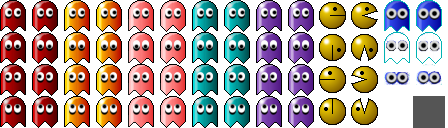
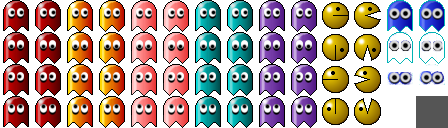
Implementado dibujado de texturas

diff --git a/HolaSDL/GameMap.cpp b/HolaSDL/GameMap.cpp
@@ -4,28 +4,25 @@
 
 GameMap::GameMap(Game* game, size_t rows, size_t cols) :pGame(game), _rows(rows), _cols(cols)
 {
-
+	//INIT BOARD/////////
 	board = new MapCell_t*[rows];
 
 	for (size_t i = 0; i < rows; i++)
 	{
 		board[i] = new MapCell_t[cols];
 	}
+	//FORMAT TILE
 	rect.x = rect.y = rect.w = rect.h = 0;
 	pGame->rectToTile(rect);
 
-	wallText = new Texture();
-	wallText->load(pGame->getRenderer(), pGame->getTextPath(Game::tWall));
+	//GET TEXTURES////////////
+	wallText	= pGame->getTexture(Game::Texture_t::tWall);
 
-	vitiminText = new Texture();
-	vitiminText->load(pGame->getRenderer(), pGame->getTextPath(Game::tVitamin));
+	vitiminText = pGame->getTexture(Game::Texture_t::tVitamin);
 
-	foodText = new Texture();
-	foodText->load(pGame->getRenderer(), pGame->getTextPath(Game::tPjes));
+	foodText	= pGame->getTexture(Game::Texture_t::tFood);
 
-	emptyText = new Texture();
-	emptyText->load(pGame->getRenderer(), pGame->getTextPath(Game::tPjes));
-
+	emptyText	= pGame->getTexture(Game::Texture_t::tPjes);
 }
 
 
@@ -63,12 +60,6 @@ bool GameMap::isEmpty(size_t x, size_t y)
 void GameMap::render()
 {
 
-	SDL_Rect destRect;
-	pGame->rectToTile(rect);
-	//pGame->rectToTile(destRect);
-
-	//emptyText->
-
 	for (size_t i = 0; i < _rows; i++)
 	{
 		for (size_t j = 0; j < _cols; j++)
@@ -81,13 +72,13 @@ void GameMap::render()
 				wallText->render(pGame->getRenderer(), &rect);
 				break;
 			case MapCell_t::Empty:
-				emptyText->renderFrame(pGame->getRenderer(), destRect, 3, 13, SDL_FLIP_NONE);
+				emptyText->renderFrame(pGame->getRenderer(), rect, 3, 13, SDL_FLIP_NONE);
 				break;
 			case MapCell_t::Vitamins:
 				vitiminText->render(pGame->getRenderer(), &rect);
 				break;
 			case MapCell_t::Food:
-				foodText->render(pGame->getRenderer(), &rect);
+				wallText->render(pGame->getRenderer(), &rect);
 				break;
 			default:
 				break;

diff --git a/HolaSDL/Game.cpp b/HolaSDL/Game.cpp
@@ -74,17 +74,23 @@ bool Game::initMedia()
 		"..\\maps\\level04.dat",
 		"..\\maps\\level05.dat"
 	};
-	texts_paths.resize(9);
+	texts_paths.resize(NUM_TEXTURES);
 	texts_paths[tWall] = "..\\images\\wall.png";
 	texts_paths[tVitamin] = "..\\images\\vitamin.png";
-	texts_paths[tPjes] = "..\\images\\Characters1.png";
-	/*texts_paths[tPacman] = "..\\images\\pacman.png";
-	texts_paths[tGhost1] = "..\\images\\ghost1.png";
-	texts_paths[tGhost2] = "..\\images\\ghost2.png";
-	texts_paths[tGhost3] = "..\\images\\ghost3.png";
-	texts_paths[tGhost4] = "..\\images\\ghost4.png";
+	texts_paths[tPjes] = "..\\images\\characters1.png";
+	//texts_paths[tPjes] = "..\\images\\c.png";
 	texts_paths[tFood] = "..\\images\\food.png";
-	texts_paths[tEmpty] = "..\\images\\empty.png";*/
+	
+	textures.resize(NUM_TEXTURES);
+	textures[tWall] = new Texture();
+	textures[tWall]->load(getRenderer(), texts_paths[tWall]);
+	textures[tVitamin] = new Texture();
+	textures[tVitamin]->load(getRenderer(), texts_paths[tVitamin]);
+	textures[tPjes] = new Texture(4, 14);
+	textures[tPjes]->load(getRenderer(), texts_paths[tPjes]);
+	textures[tFood] = new Texture();
+	textures[tFood]->load(getRenderer(), texts_paths[tFood]);
+	//Init Textures
 	return true;
 }
 void Game::freeMedia()

diff --git a/HolaSDL/Texture.cpp b/HolaSDL/Texture.cpp
@@ -10,6 +10,13 @@ Texture::Texture(size_t const ROWS, size_t const COLS)
 
 }
 
+Texture::Texture()
+{
+	texture = nullptr;
+	_COLS = _ROWS = 1;
+	textHeight = textWidth = 0;
+}
+
 
 Texture::~Texture()
 {
@@ -25,7 +32,7 @@ bool Texture::load(SDL_Renderer* renderer, string filename) {
 	if (tmpSur == nullptr) { std::cout << "Unable to load image "<<filename<<" !" << endl; success = false; }
 	else {
 		texture = SDL_CreateTextureFromSurface(renderer, tmpSur);
-		texture->
+		SDL_QueryTexture(texture, NULL, NULL, &textWidth, &textHeight);
 		SDL_FreeSurface(tmpSur);
 		success = texture != nullptr;
 	}
@@ -45,10 +52,10 @@ void Texture::renderFrame(SDL_Renderer* renderer, const SDL_Rect& destRect,
 
 	SDL_Rect rect;
 		
-	rect.x = frameW * col;
-	rect.y = frameH * row;
-	rect.w = frameW;
-	rect.h = frameH;
+	rect.x = col * (textWidth  / _COLS);
+	rect.y = row * (textHeight / _ROWS);
+	rect.w = (textWidth/ _COLS);
+	rect.h = (textHeight / _ROWS);
 	SDL_RenderCopyEx(renderer, texture, &rect, &destRect, 0, 0, flip);
 	
 }

diff --git a/HolaSDL/Game.h b/HolaSDL/Game.h
@@ -13,6 +13,7 @@
 #include <iostream>
 #include <fstream>
 #define MAX_TICKS_PER_SECOND 2
+#define NUM_TEXTURES 4
 
 using namespace std;
 
@@ -28,12 +29,16 @@ public:
 		tWall = 0,		
 		tVitamin = 1,
 		tPjes = 2,
+		tFood = 3
 		
 	};
 	enum class Direction{UP, DOWN, RIGHT, LEFT};
 	void rectToTile(SDL_Rect & rawRect);
 	SDL_Renderer* getRenderer() { return renderer; }
 	Direction getNextDir() { return nextDir; }
+	Texture* getTexture(Texture_t type) {
+		return textures[type]; 
+	};
 	bool canMoveTo(int x, int y);
 	string getTextPath(Texture_t text);
 private:
@@ -56,6 +61,7 @@ private:
 	bool exit = false;
 	vector <string> pathToLevels;
 	vector <string> texts_paths;
+	vector <Texture*> textures;
 	size_t currentLevel;
 	//Ghost* ghosts[4] = { nullptr, nullptr, nullptr, nullptr };
 	GameMap* gameMap;

diff --git a/HolaSDL/Texture.h b/HolaSDL/Texture.h
@@ -7,14 +7,10 @@
 using namespace std;
 
 class Texture {
-private:
-	SDL_Texture* texture = nullptr;
-	SDL_Rect destRect; //rectangulo fuente y rectangulo destino
-
-	size_t textWidth, textHeight, _ROWS, _COLS;
 
 public:
 	Texture(size_t const ROWS, size_t const COLS);
+	Texture();
 	~Texture();
 
 	bool load(SDL_Renderer* renderer, string filename);
@@ -24,5 +20,11 @@ public:
 	void renderFrame(SDL_Renderer* renderer, const SDL_Rect& destRect,
 		int row, int col, SDL_RendererFlip flip = SDL_FLIP_NONE) const;
 
+private:
+	SDL_Texture* texture;
+	SDL_Rect destRect; //rectangulo fuente y rectangulo destino
+
+	int textWidth, textHeight;
+	size_t  _ROWS, _COLS;
 };
 #endif
